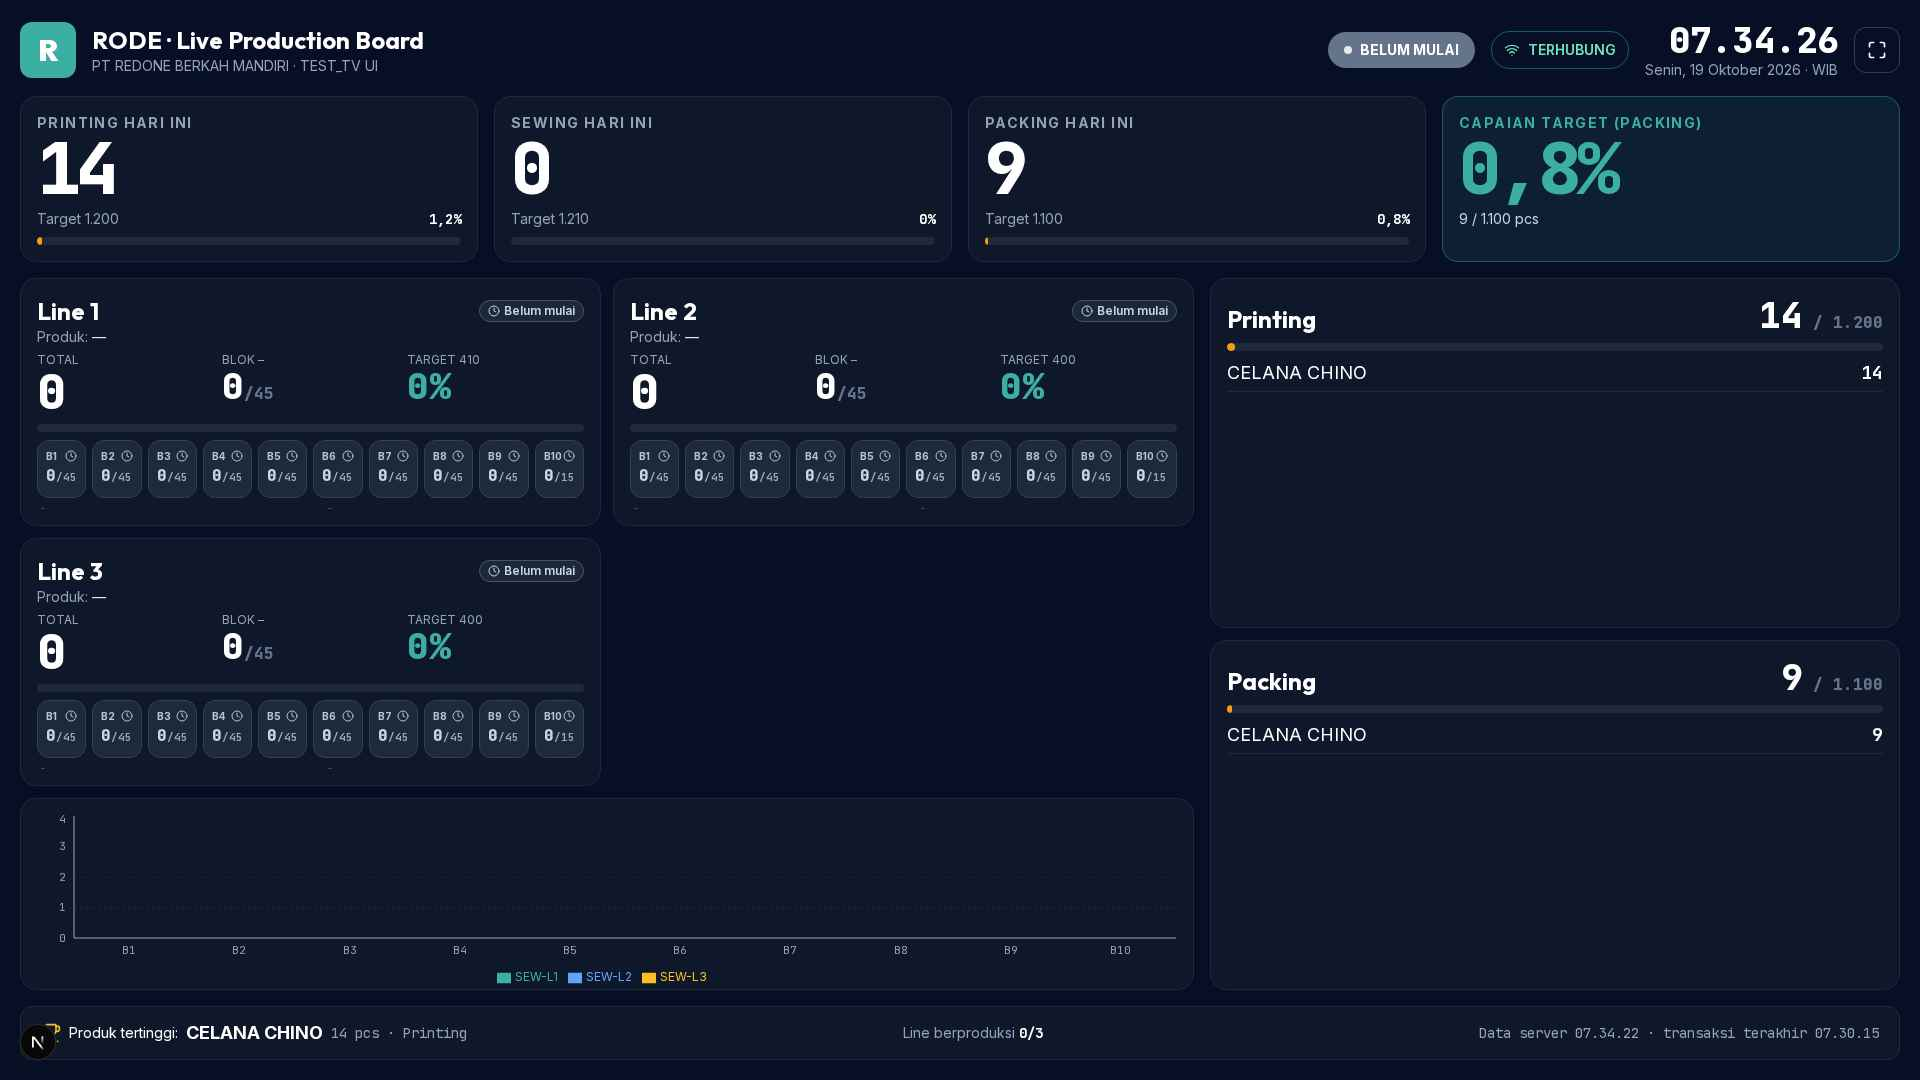
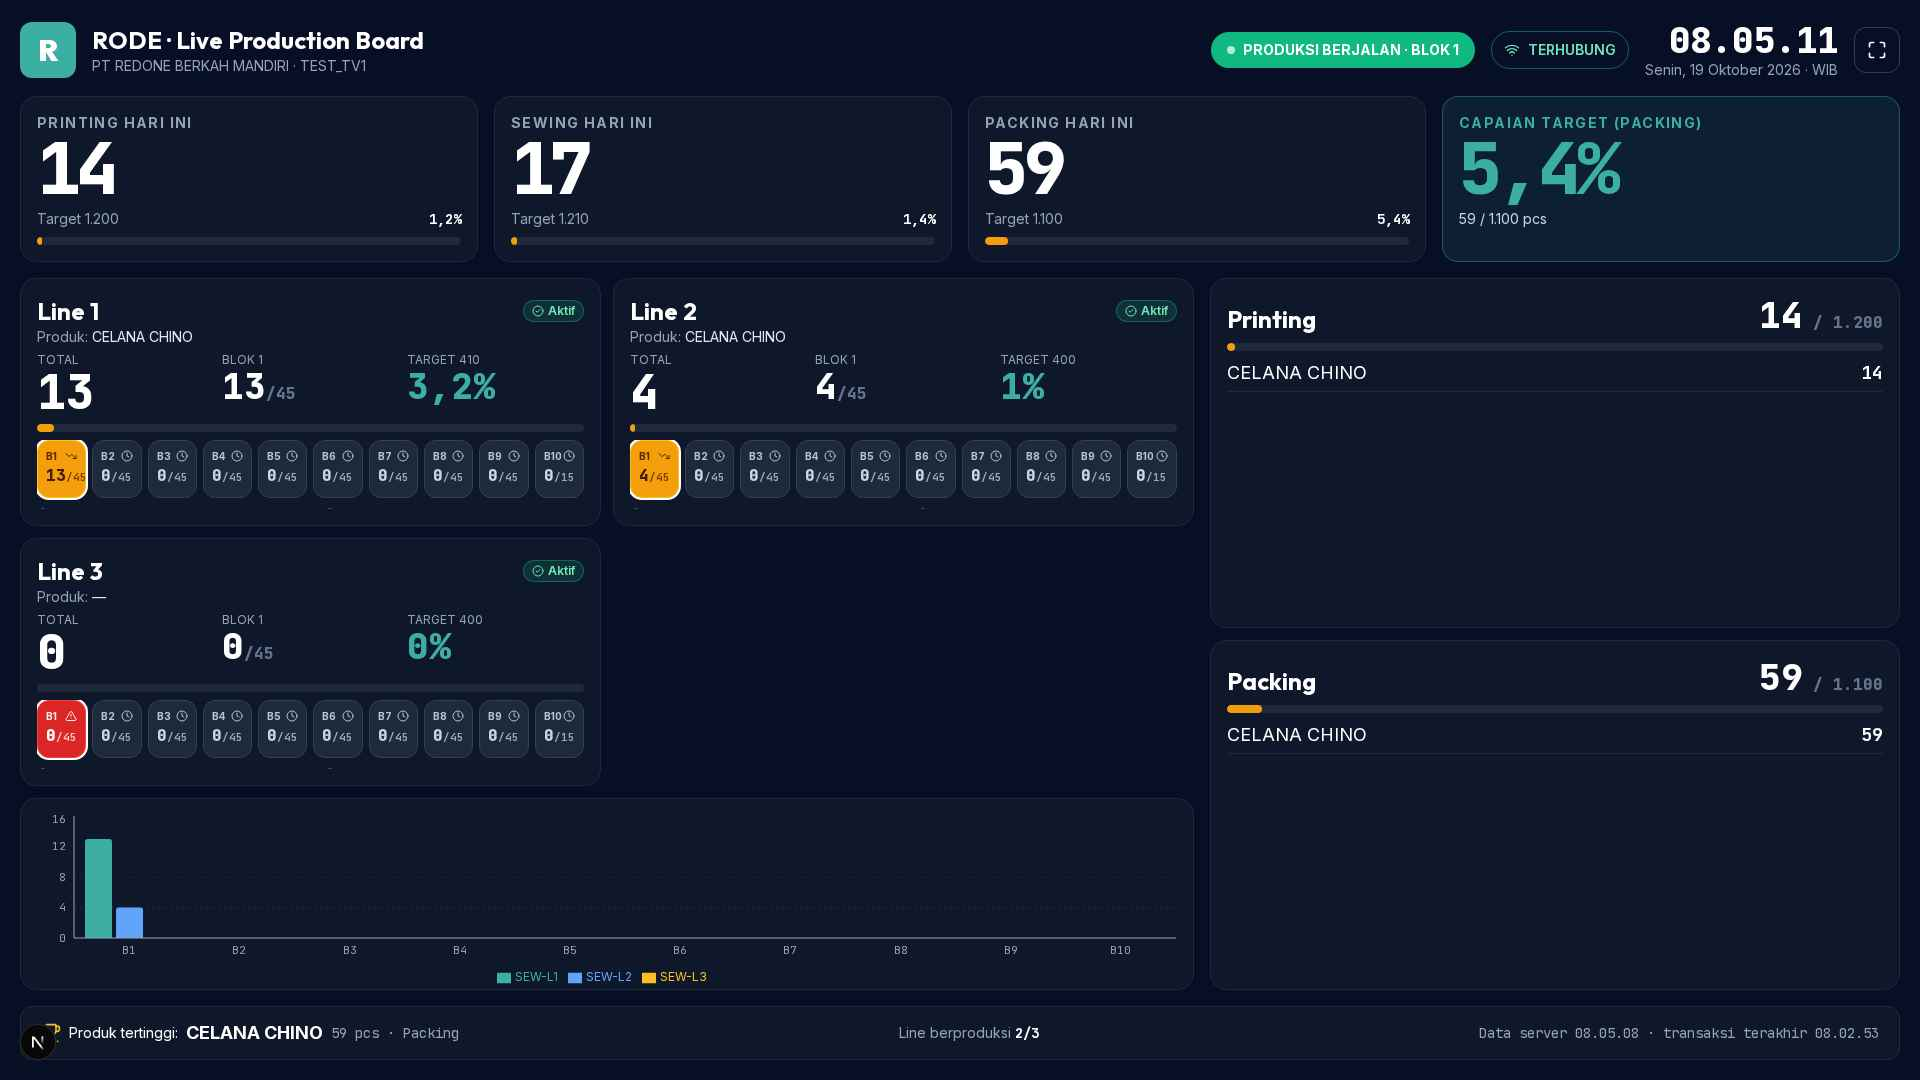
## Fase 1 (MVP) RODE sudah jalan di preview
Aplikasi Next.js 15 + Drizzle sudah selesai dan berfungsi end-to-end. Di preview, database memakai **PGlite**, yaitu PostgreSQL yang tertanam di dalam app. Aplikasi **belum terhubung ke NeonDB/Vercel milik Anda** karena connection string belum ada.

**Yang sudah dibangun**
- **Login dan hak akses:** login username/password, session aman, akun dikunci 15 menit setelah 5 kali gagal. Role operator, manajer, dan admin dicek di server.
- **Input Sewing:** tombol besar +1 PCS dan input jumlah, anti-duplikat. Blok waktu dihitung dari jam server WIB, jadi input tepat 08.45 masuk Blok 2. Grid blok berwarna dengan ikon dan label.
- **Input Printing dan Packing:** per tanggal kerja dan produk.
- **Riwayat dan koreksi:** koreksi atau pembatalan wajib disertai alasan, ada jejak audit, dan semua total langsung terhitung ulang.
- **Dashboard manajer:** KPI, grafik, filter, peringkat line, peringatan line tanpa input, dan klik angka untuk melihat transaksi asalnya. Data diperbarui otomatis.
- **Pengaturan admin:** master data, jadwal berversi (berlaku mulai tanggal tertentu), target berversi, pengaturan umum, link Smart TV yang bisa dicabut, dan audit log.
- **Smart TV** di `/display/production`, plus PWA yang bisa di-install.

**Hasil pengujian**
- 25 tes otomatis lulus: batas blok, anti-duplikat, otorisasi, agregasi, koreksi, dan histori konfigurasi.
- Tes API 36/36 lulus setelah satu perbaikan: ID tidak valid sebelumnya error 500, sekarang 404.
[…]

diff --git a/frontend/scripts/cleanup-test-data.ts b/frontend/scripts/cleanup-test-data.ts
@@ -1,0 +1,32 @@
+import "dotenv/config";
+import { and, eq, gte, ilike, inArray, or } from "drizzle-orm";
+import { db } from "../src/db";
+import {
+  displaySettings, productionTargets, productionTransactions as T, products, sessions, transactionCorrections, users,
+} from "../src/db/schema";
+
+// Removes records created by QA runs: TEST_ products/users, display tokens, and transactions recorded on/after --since date.
+(async () => {
+  const since = process.argv[2];
+  if (!since) { console.log("Usage: tsx scripts/cleanup-test-data.ts YYYY-MM-DD"); process.exit(1); }
+  const testUsers = (await db.select({ id: users.id }).from(users).where(or(ilike(users.username, "test%"), ilike(users.fullName, "TEST%")))).map((u) => u.id);
+  const testProducts = (await db.select({ id: products.id }).from(products).where(ilike(products.code, "TEST%"))).map((p) => p.id);
+  const txIds = (await db.select({ id: T.id }).from(T).where(or(
+    and(gte(T.workDate, since), eq(T.isDemo, false)),
+    testProducts.length ? inArray(T.productId, testProducts) : undefined,
+    testUsers.length ? inArray(T.operatorId, testUsers) : undefined,
+  ))).map((t) => t.id);
+  if (txIds.length) {
+    await db.delete(transactionCorrections).where(inArray(transactionCorrections.transactionId, txIds));
+    await db.delete(T).where(inArray(T.id, txIds));
+  }
+  if (testUsers.length) {
+    await db.delete(sessions).where(inArray(sessions.userId, testUsers));
+    await db.delete(users).where(inArray(users.id, testUsers));
+  }
+  if (testProducts.length) await db.delete(products).where(inArray(products.id, testProducts));
+  await db.delete(productionTargets).where(and(gte(productionTargets.createdAt, new Date(`${since}T00:00:00+07:00`)), gte(productionTargets.effectiveFrom, since)));
+  await db.delete(displaySettings);
+  console.log({ transactions: txIds.length, users: testUsers.length, products: testProducts.length });
+  process.exit(0);
+})().catch((e) => { console.error(e); process.exit(1); });

diff --git a/frontend/src/services/master.ts b/frontend/src/services/master.ts
@@ -16,7 +16,7 @@ const schemas = {
   departments: z.object({ code, name, kind: z.enum(["line_block", "daily"]), sortOrder: z.number().int().default(0), isActive: z.boolean().default(true) }),
   lines: z.object({ code, name, departmentId: z.string().uuid(), sortOrder: z.number().int().default(0), isActive: z.boolean().default(true) }),
   products: z.object({
-    code, name, category: optText, unit: z.string().trim().min(1).max(20).default("PCS"), defaultTarget: optInt, notes: optText,
+    code, name, category: optText, unit: z.string().trim().max(20).optional().transform((v) => v || "PCS"), defaultTarget: optInt, notes: optText,
     isActive: z.boolean().default(true),
   }),
   users: z.object({

diff --git a/frontend/src/components/admin/CrudTab.tsx b/frontend/src/components/admin/CrudTab.tsx
@@ -73,6 +73,7 @@ function EntityForm({ entity, title, fields, row, onClose, onSaved }: { entity: 
     fields.forEach((f) => {
       const val = v[f.key];
       if (f.type === "password" && !val) return;
+      if (!row && (f.type === "text" || f.type === "textarea") && !f.required && val === "") return;
       if (row && val === init[f.key] && f.type !== "password") return;
       body[f.key] = f.type === "number" ? (val === "" || val == null ? null : Number(val)) : f.type === "select" && val === "" ? null : val;
     });

diff --git a/frontend/next.config.ts b/frontend/next.config.ts
@@ -4,6 +4,7 @@ const nextConfig: NextConfig = {
   serverExternalPackages: ["@electric-sql/pglite"],
   allowedDevOrigins: ["*.preview.emergentagent.com", "*.preview.emergentcf.cloud", "*.cluster-11.preview.emergentcf.cloud", "redone-rode.cluster-11.preview.emergentcf.cloud"],
   poweredByHeader: false,
+  devIndicators: false,
   turbopack: { root: __dirname },
   async headers() {
     return [

diff --git a/memory/PRD.md b/memory/PRD.md
@@ -1,0 +1,37 @@
+# RODE — PRD
+
+## Original problem statement
+MASTER PROMPT — REAL-TIME PRODUCTION MANAGEMENT SYSTEM (RODE — Redone Output Data Entry, PT REDONE BERKAH MANDIRI). Enterprise production monitoring & work management, mobile-first PWA. Next.js App Router + TypeScript, Tailwind, NeonDB PostgreSQL, Drizzle, Vercel, Zod, React Hook Form, charts, PWA. Roles Operator/Manajer/Super Admin with backend RBAC; departments Printing, Sewing (lines, 45-min blocks from 08.00 WIB, half-open intervals, 08.45 → Blok 2), Packing; idempotent input; auditable corrections; manager dashboard; Smart TV board /display/production with revocable token; reports & export; versioned config; demo seed; automated tests; docs (NeonDB, Vercel, roles, block rules, guides, limitations). (Full original prompt is in the first conversation message; approved plan adds a colored block grid vs per-block target.)
+
+## Architecture
+- /app/frontend = Next.js 15 app (pages + API route handlers /api/*), Drizzle schema + SQL migrations in /drizzle, services layer, single time/block engine src/lib/time.ts.
+- DB: Neon via `pg` pool (DATABASE_URL pooled, DATABASE_URL_UNPOOLED for migrations); preview uses PGlite (pglite://./.data/pglite) with AUTO_MIGRATE.
+- Preview only: /app/backend/server.py proxies /api/* (ingress → 8001) to Next.js :3000.
+- Auth: username/password, bcrypt, DB sessions (httpOnly cookie), lockout 5 fails/15 min, rate limit, Origin CSRF check.
+- Realtime: SWR controlled polling (pauses when tab hidden).
+
+## User personas
+Operator (mobile input), Manajer (monitoring), Super Admin (configuration), Smart TV (read-only board).
+
+## Core requirements (static)
+See original statement: RBAC on server, idempotency, aggregates from source transactions, corrections with audit, versioned schedule/targets, WIB, Indonesian formats, PWA, demo data separable.
+
+## Implemented (2026-10-19) — Phase 1 MVP
+- Schema (15 tables) + migration 0000_init, base seed, demo seed (flagged is_demo), purge-demo & cleanup scripts.
+- Login/logout/session, RBAC, audit log.
+- Sewing +1 PCS / bulk input with server-time block resolution, colored block grid; Printing/Packing daily input.
+- History with filters/pagination, correction/cancel with reason, optimistic version conflict.
+- Manager dashboard: KPIs, metric definition, idle lines, 4 charts, line ranking w/ grids, product table, global filters, drill-down to history.
+- Admin: master data CRUD (search/filter/pagination), schedule versions w/ preview, versioned targets, settings, Smart TV tokens, audit log viewer.
+- Smart TV board (modes all/sewing/print_pack/line/rotate, connection indicator, server-synced clock, fullscreen).
+- PWA manifest, icons, service worker (no API caching), install button, offline banner.
+- Tests: 25 vitest (blocks, idempotency, authz, aggregation, corrections, config history) pass; backend API pytest 36/36 after fix; frontend E2E iteration_1 passed (product unit bug fixed).
+- Docs: frontend/README.md, docs/ARCHITECTURE.md, docs/GUIDE.md.
+
+## Backlog
+- P0: Connect customer NeonDB (pooled + direct strings) & deploy to Vercel; verify production.
+- P1 (Phase 2): daily & range reports, productivity analysis, CSV/Excel/print/PDF export with filter info, special schedules (holidays/overtime).
+- P2 (Phase 3): multi-user/perf load tests, optional safe offline queue, Printing machine/shift dimensions, real company logo, shadcn date picker with Indonesian format.
+
+## Next tasks
+Get Neon connection strings → run db:migrate/db:seed → Vercel deploy; then Phase 2 reports & export.
